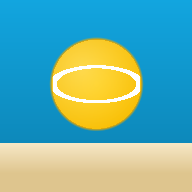
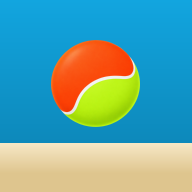
Super N: bola de verdade no app e nos icones
A bola do cabecalho, do puxador do seletor de games e dos icones passa a
vir de uma imagem real (bola-fonte.png) no lugar do desenho vetorial.

O build reduz por media de area com alfa pre-multiplicado e quantiza por
median cut: 1 MB viram 1,2 KB (64px, 64 cores, PNG de paleta), embutidos
no proprio HTML - sem requisicao extra e sem falhar offline. Os icones
compoem a mesma imagem sobre o ceu e a areia, em cor real; paleta poupava
espaco mas deixava faixas no gradiente do ceu.

Cache do service worker para v20.

Changed region(s): [[0.25, 0.1875, 0.75, 0.6875]]

diff --git a/supern/index.html b/supern/index.html
@@ -32,6 +32,7 @@
   --tag-bola-bg:#FFF0BF; --tag-bola-fg:#8A6100;
   --tag-ok-bg:#D7F3E4; --tag-ok-fg:#0A7042;
   --pt-cor:var(--ceu-escuro);
[1 lines of base64/hex data omitted]
   --r:16px; --r-s:11px;
   --f-disp:'Archivo Black','Arial Black',system-ui,sans-serif;
   --f-body:'Outfit','Segoe UI',system-ui,sans-serif;
@@ -90,8 +91,7 @@ button:disabled,[disabled],[aria-disabled="true"]{cursor:default}
 .top .sub{font-size:11px;font-weight:700;opacity:.92;letter-spacing:.08em;text-transform:uppercase;font-family:var(--f-body)}
 .icobtn{width:40px;height:40px;border-radius:12px;display:grid;place-items:center;background:rgba(255,255,255,.18);color:#fff;font-size:18px;font-weight:800;flex:none}
 .icobtn:active{transform:scale(.94)}
-.ball{width:28px;height:28px;border-radius:50%;background:radial-gradient(circle at 32% 28%,#FFE070,var(--bola) 58%,#E9A800);flex:none;position:relative;box-shadow:inset 0 0 0 2px rgba(255,255,255,.4)}
-.ball::after{content:"";position:absolute;inset:3px;border-radius:50%;border:2px solid rgba(255,255,255,.8);border-left-color:transparent;border-right-color:transparent;transform:rotate(28deg)}
+.ball{width:28px;height:28px;flex:none;background:var(--bola-img);filter:drop-shadow(0 1px 2px rgba(7,32,47,.35))}
 
 .tabs{
   position:fixed;left:0;right:0;bottom:0;z-index:40;display:flex;
@@ -280,9 +280,9 @@ input[type=range]{-webkit-appearance:none;appearance:none;width:100%;height:34px
 input[type=range]::-webkit-slider-runnable-track{height:10px;border-radius:6px;background:linear-gradient(90deg,var(--ceu),var(--bola));border:1px solid var(--borda)}
 input[type=range]::-moz-range-track{height:10px;border-radius:6px;background:linear-gradient(90deg,var(--ceu),var(--bola));border:1px solid var(--borda)}
 input[type=range]::-webkit-slider-thumb{-webkit-appearance:none;width:30px;height:30px;margin-top:-11px;border-radius:50%;
-  background:radial-gradient(circle at 34% 30%,#FFE070,var(--bola) 60%,#E9A800);border:2px solid #fff;box-shadow:0 2px 6px rgba(11,58,91,.45)}
+  background:var(--bola-img);border:2px solid #fff;box-shadow:0 2px 6px rgba(11,58,91,.45)}
 input[type=range]::-moz-range-thumb{width:26px;height:26px;border-radius:50%;
-  background:radial-gradient(circle at 34% 30%,#FFE070,var(--bola) 60%,#E9A800);border:2px solid #fff;box-shadow:0 2px 6px rgba(11,58,91,.45)}
+  background:var(--bola-img);border:2px solid #fff;box-shadow:0 2px 6px rgba(11,58,91,.45)}
 .escala{display:flex;justify-content:space-between;font-size:10px;font-weight:700;color:var(--texto-2);padding:0 2px;font-variant-numeric:tabular-nums}
 .marca{padding:2px 5px;border-radius:5px}
 .marca.on{background:var(--laranja);color:#fff}

diff --git a/supern/sw.js b/supern/sw.js
@@ -1,4 +1,4 @@
-const CACHE = "super8-v19";
+const CACHE = "super8-v20";
 const ARQUIVOS = ["./", "./index.html", "./manifest.webmanifest", "./icone-192.png", "./icone-512.png"];
 self.addEventListener("install", e => {
   // busca ignorando o cache do navegador, senao a versao nova pode nem chegar
